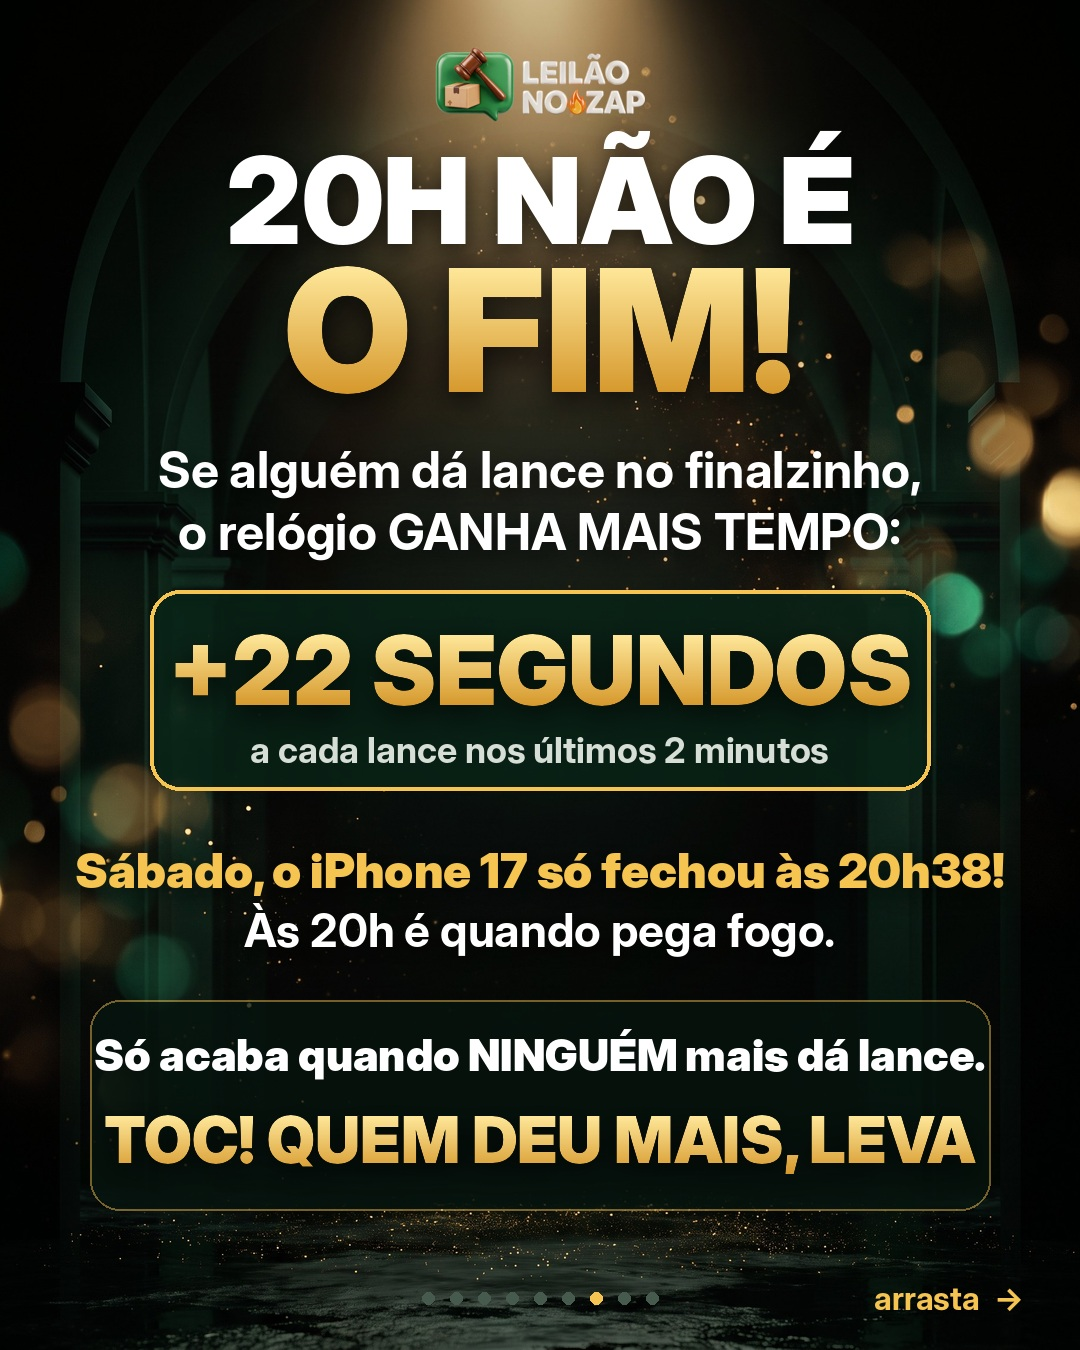
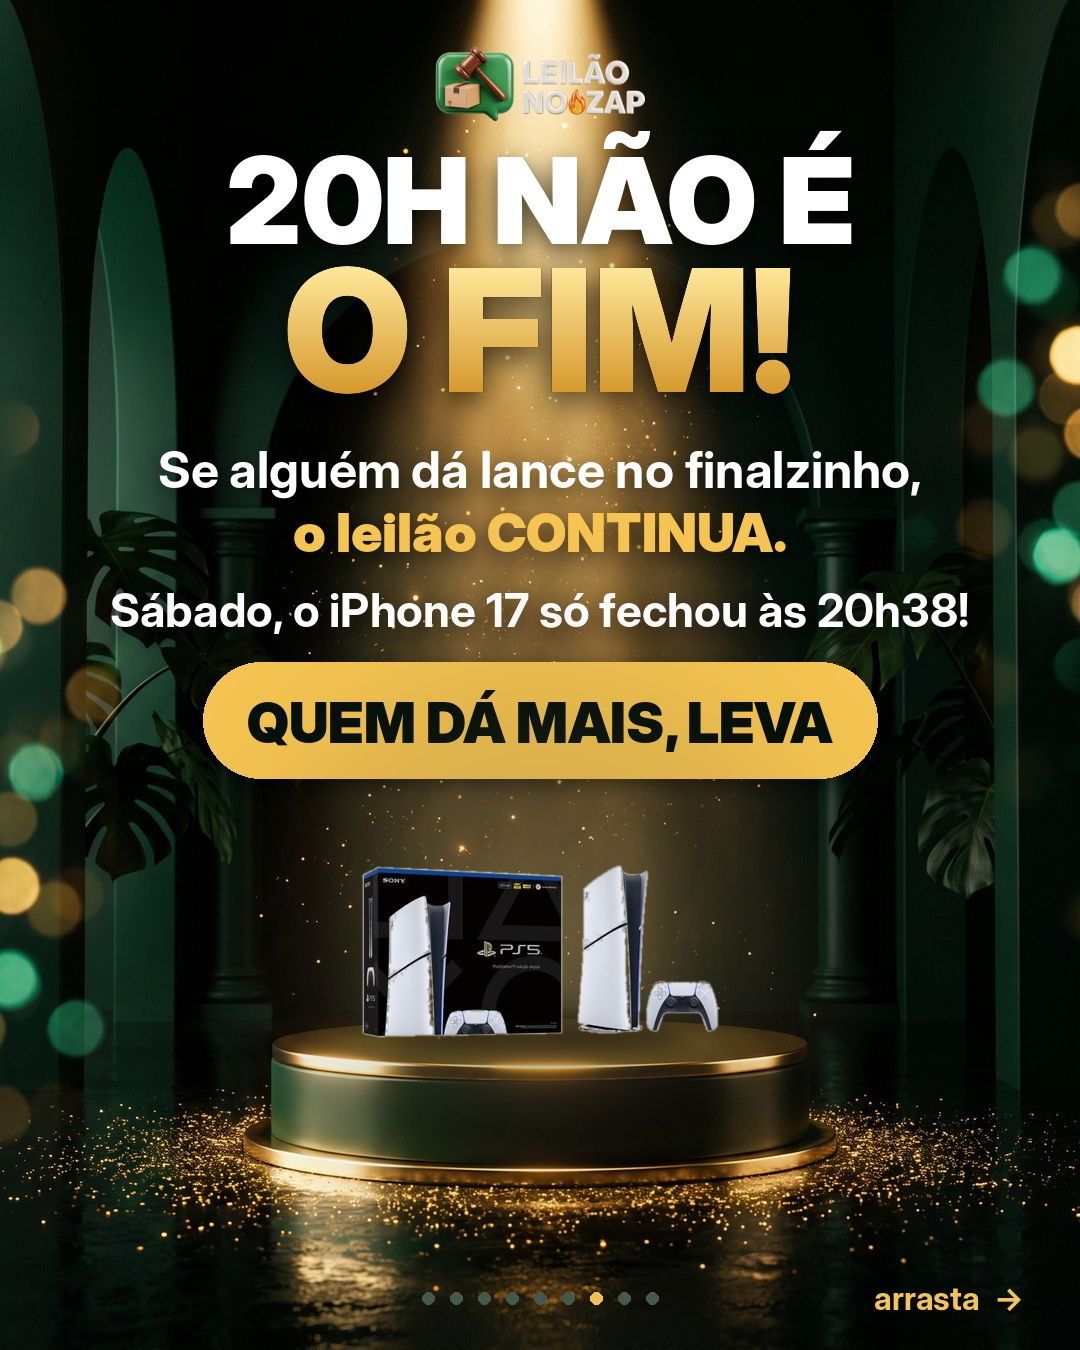
Carrossel do leilão: sem os 22 segundos, só 'quem dá mais, leva'
Claude-Session: https://claude.ai/code/session_01JihU9VfVTYTrMqQpApFEjH

diff --git a/marketing/posts/2026-11-10-carrossel-como-funciona-leilao/fonte/carrossel.py b/marketing/posts/2026-11-10-carrossel-como-funciona-leilao/fonte/carrossel.py
@@ -164,20 +164,15 @@ for tit, sub, dest in [('Deu lance?', 'o valor fica GUARDADO', False), ('Alguém
 T(b, (W/2, 1180), 'Sem saldo, o lance não entra.', F('Black', 46), BR)
 S.append(b)
 
-# 7 — 20h não é o fim: lance nos últimos 2min22s dá +22 segundos (submitAtomicBid: COUNTDOWN_DURATION 142, BID_EXTENSION_SECONDS 22)
-b = fundo('texto'); topo(b, 7, TOT)
+# 7 — 20h não é o fim: com lance no finalzinho o leilão continua (sem citar os segundos — pedido da Natália)
+b = fundo('podio'); topo(b, 7, TOT)
 T(b, (W/2, 200), '20H NÃO É', F('Black', 120), BR)
 OUROT(b, (W/2, 330), 'O FIM!', F('Black', 170))
 T(b, (W/2, 470), 'Se alguém dá lance no finalzinho,', F('Bold', 50), BR)
-T(b, (W/2, 532), 'o relógio GANHA MAIS TEMPO:', F('Bold', 50), BR)
-card(b, (150, 590, W-150, 790), True)
-OUROT(b, (W/2, 670), '+22 SEGUNDOS', F('Black', 96))
-T(b, (W/2, 750), 'a cada lance nos últimos 2 minutos', F('Bold', 36), CINZA, somb=0)
-T(b, (W/2, 870), 'Sábado, o iPhone 17 só fechou às 20h38!', F('Black', 48), OURO)   # banco: fim 20:38:30, último lance 20:38:07
-T(b, (W/2, 930), 'Às 20h é quando pega fogo.', F('Bold', 46), BR)
-card(b, (90, 1000, W-90, 1210))
-T(b, (W/2, 1055), 'Só acaba quando NINGUÉM mais dá lance.', F('Black', 44), BR, somb=0)
-OUROT(b, (W/2, 1140), 'TOC! QUEM DEU MAIS, LEVA', F('Black', 64))
+T(b, (W/2, 532), 'o leilão CONTINUA.', F('Black', 54), OURO)
+T(b, (W/2, 610), 'Sábado, o iPhone 17 só fechou às 20h38!', F('Bold', 46), BR)   # banco: fim 20:38:30, último lance 20:38:07
+pil(b, W/2, 720, 'QUEM DÁ MAIS, LEVA', F('Black', 56), fundo_=OURO, cor=NOITE, borda=None, h=116)
+c = caixa.copy(); c.thumbnail((360, 240)); base = int(PODIO_TOPO*H) + 8; luz(b, W/2, base - c.height*0.5, 190); poe(b, c, W/2, base)
 S.append(b)
 
 # 8 — como dar seu lance
@@ -197,7 +192,7 @@ S.append(b)
 b = fundo('texto'); topo(b, 9, TOT, seta=False)
 OUROT(b, (W/2, 230), 'RESUMINDO', F('Black', 160))
 y = 340
-for t in ['Leilão = quem dá mais, leva', 'R$ 197 é só o 1º lance', 'O preço sobe a cada lance', 'Precisa ter saldo pra dar lance', 'Lance no final dá +22 segundos']:
+for t in ['Leilão = quem dá mais, leva', 'R$ 197 é só o 1º lance', 'O preço sobe a cada lance', 'Precisa ter saldo pra dar lance', 'Teve lance no final? Continua']:
     card(b, (90, y, W-90, y+104)); d = ImageDraw.Draw(b); d.ellipse((128, y+34, 164, y+70), fill=OURO)
     T(b, (190, y+52), t, F('Bold', 48), BR, anchor='lm', maxw=W-300, somb=0); y += 116
 T(b, (W/2, y+30), 'Às vezes sai bem abaixo do preço da loja.', F('Medium', 38), CINZA, somb=0)
